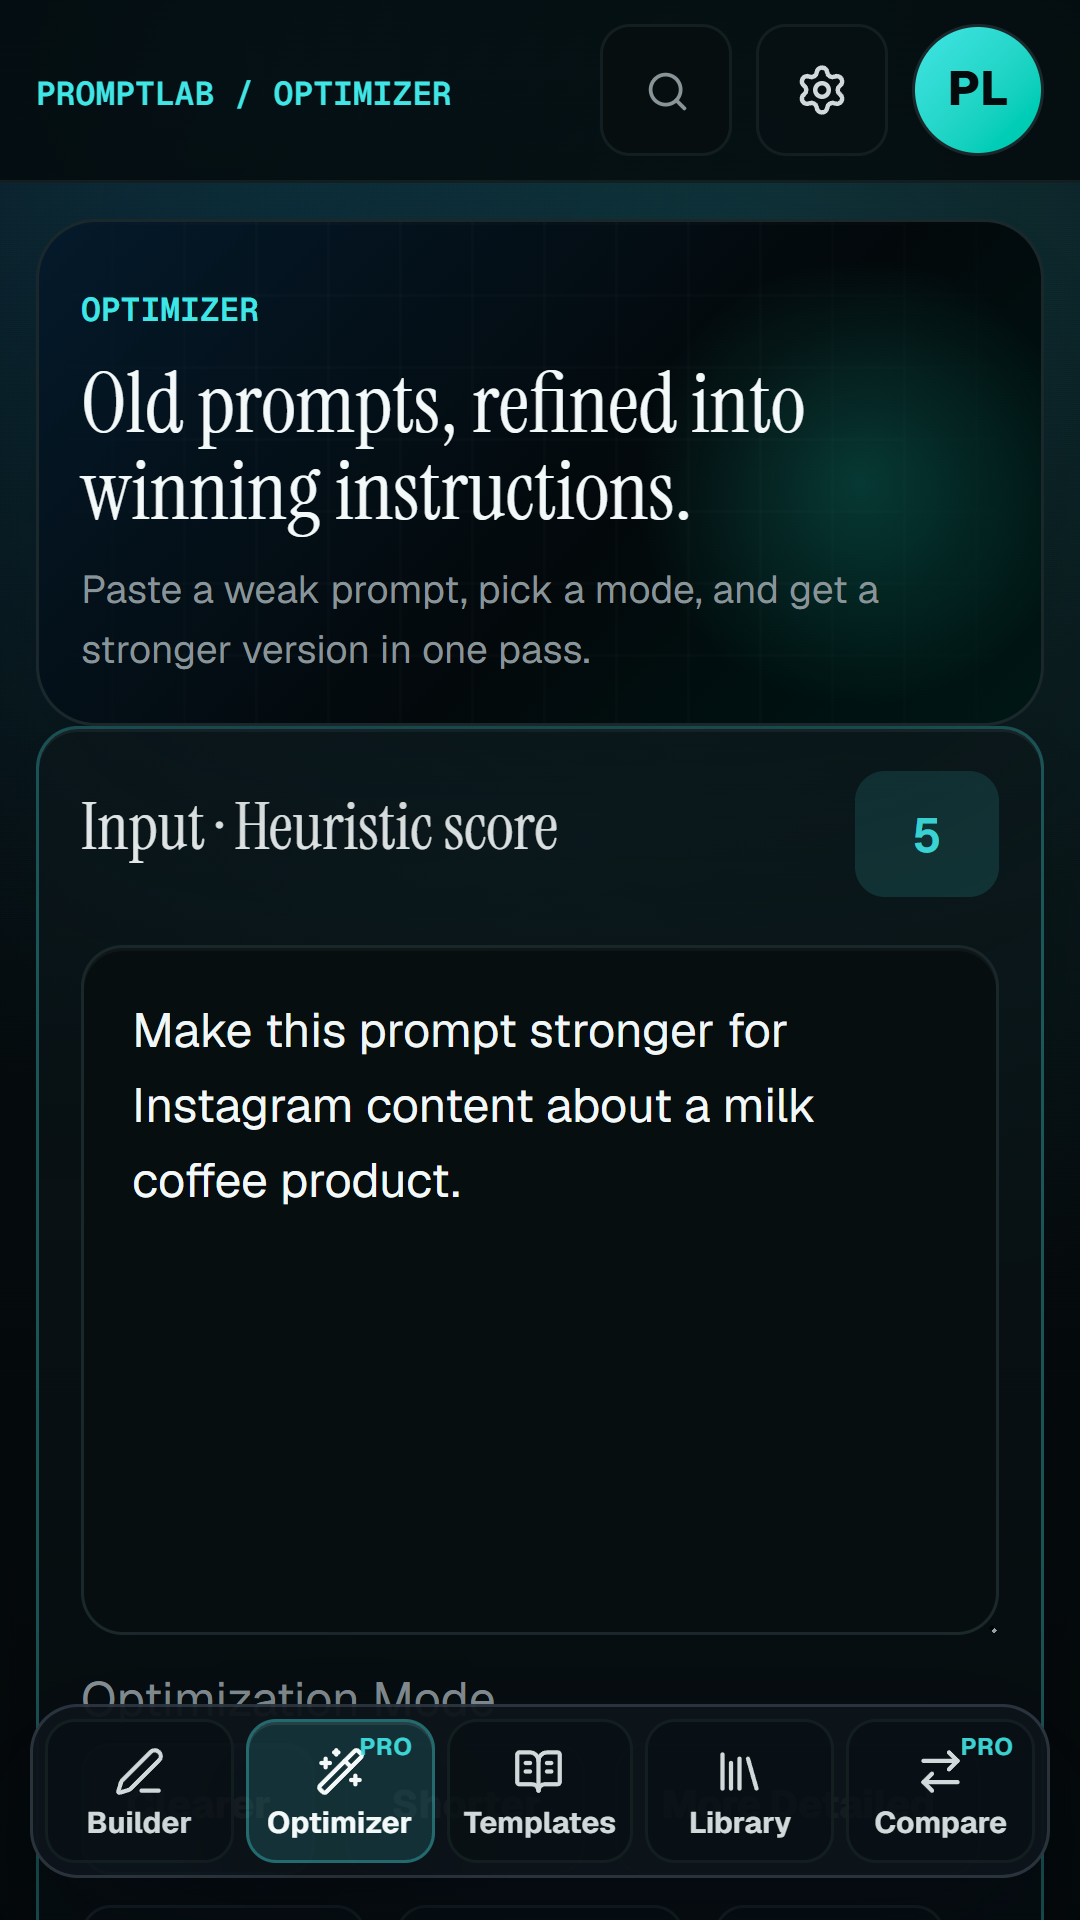
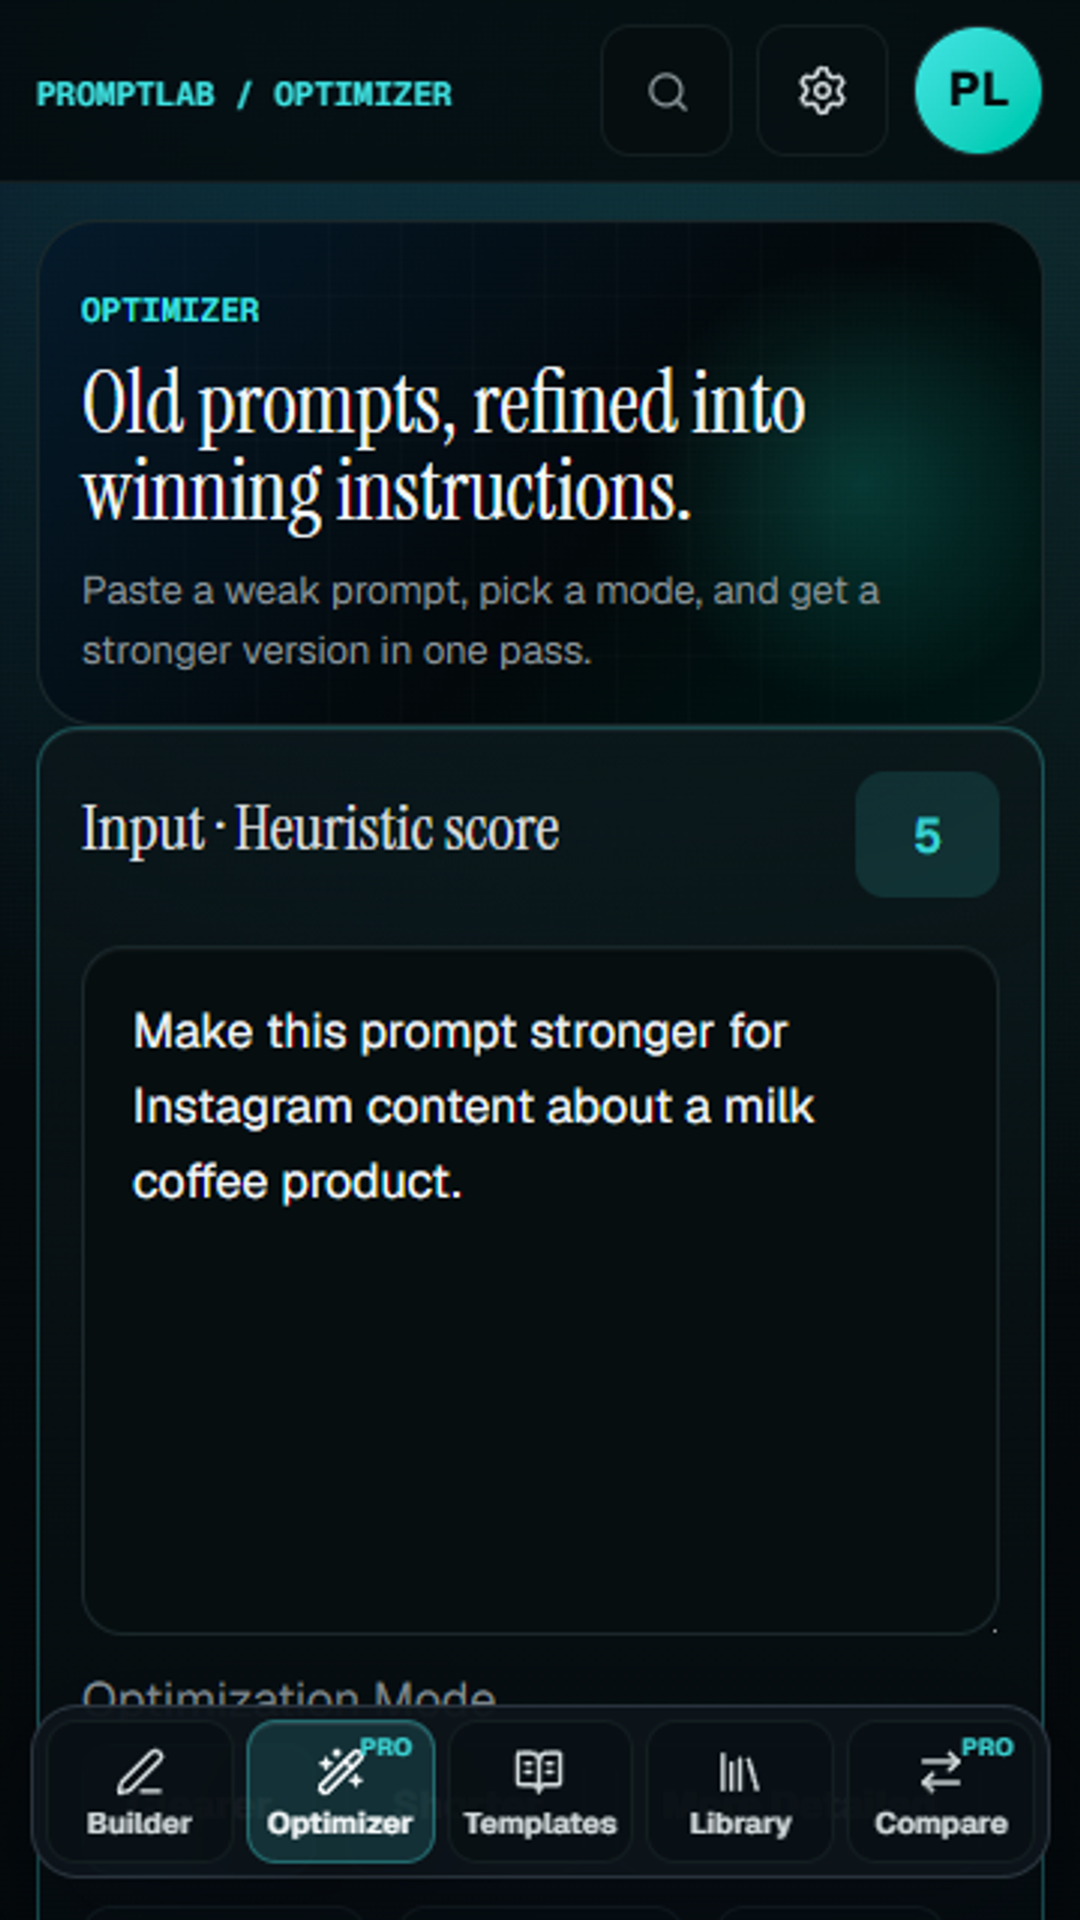
fix: capture Play Store assets at stable pixel ratio

diff --git a/test/playstore-assets.test.js b/test/playstore-assets.test.js
@@ -59,7 +59,9 @@ test("capture validates every surface and bottom navigation before writing PNGs"
 test("capture uses natural responsive CSS at a 1080x1920 device viewport", async () => {
   const source = await readFile(join(root, "scripts", "capture-playstore-screenshots.mjs"), "utf8");
   assert.match(source, /viewport: \{ width: 360, height: 640 \}/);
-  assert.match(source, /deviceScaleFactor: 3/);
+  assert.match(source, /deviceScaleFactor: 1/);
+  assert.match(source, /kernel: sharp\.kernel\.lanczos3/);
+  assert.match(source, /resize\(PHONE_WIDTH, PHONE_HEIGHT, \{ fit: "fill"/);
   assert.doesNotMatch(source, /\.v2-shell \{/);
   assert.doesNotMatch(source, /grid-template-columns: repeat\(5/);
 });
